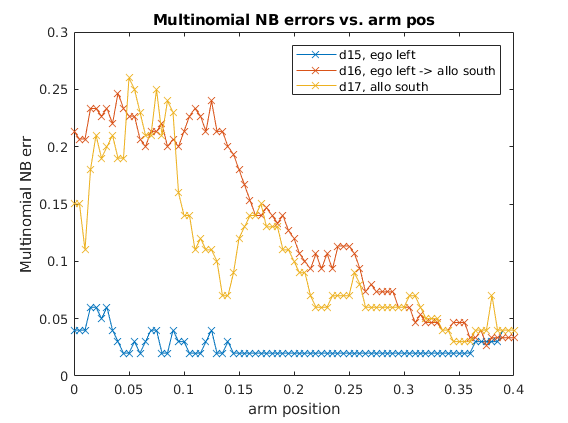
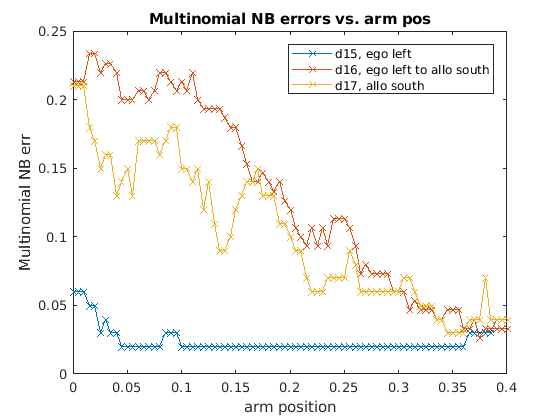
reran error curves & added explicit shuffling flag to main scripts

diff --git a/main_decode_end.m b/main_decode_end.m
@@ -1,7 +1,5 @@
-%This is the main script for end-arm decoding:
-
 clear;
-directory = '../c14m4'; %replace with wherever your data is
+directory = '../c14m4';
 
 labels{1} = 'd15, ego left';
 days{1} = 'c14m4d15';
@@ -16,15 +14,17 @@ if ~exist('figs', 'dir')
     mkdir('figs');
 end
 
-%figure;
+DO_SHUFFLE = true;
 parfor i = 1:3
     ds = quick_ds(fullfile(directory, days{i}), 'deprobe', 'nocells');
-    [poss{i}, err{i}, err_map{i}] = decode_end_nb(ds, 0.005, 0.4, false);
+    [poss{i}, err{i}, err_map{i}] = decode_end_nb(ds, 0.005, 0.4, DO_SHUFFLE);
     fprintf('trained %s\n', labels{i});
     %plot(poss, err, '-x');
     %hold on;
-    view_err(ds, poss{i}, err{i}, err_map{i}, labels{i}, 'Multinomial_NB', 'save', 'newfigs', 'hide');
+    %view_err(ds, poss{i}, err{i}, err_map{i}, labels{i}, 'Multinomial_NB', 'save', 'newfigs', 'hide');
 end
+
+figure;
 for i = 1:3
     plot(poss{i}, err{i}, '-x');
     hold on;
@@ -34,9 +34,10 @@ end
 
 xlabel('arm position');
 ylabel('Multinomial NB err');
-title('Multinomial NB errors vs. arm pos');
+plot_title = 'Multinomial NB errors vs. arm pos';
+title_note = '';
+if DO_SHUFFLE
+    title_note = ' SHUFFLED';
+end
+title([plot_title title_note]);
 legend(labels{:});
-
-%for i = 1:3
-%    view_err(ds, poss{i}, err{i}, err_map{i}, labels{i});
-%end

diff --git a/main_svm.m b/main_svm.m
@@ -1,4 +1,3 @@
-
 clear;
 rng(10);
 
@@ -17,16 +16,18 @@ if ~exist('figs', 'dir')
     mkdir('figs');
 end
 
-figure;
+DO_SHUFFLE = true;
 parfor i = 1:3
     ds = quick_ds(fullfile(directory, days{i}), 'deprobe', 'nocells');
     fprintf('loaded %s\n', labels{i});
-    [poss{i}, err{i}, err_map{i}] = decode_end_svm(ds, 0.005, 0.4, false);
+    [poss{i}, err{i}, err_map{i}] = decode_end_svm(ds, 0.005, 0.4, DO_SHUFFLE);
     fprintf('trained %s\n', labels{i});
     %plot(poss, err, '-x');
     %hold on;
-    view_err(ds, poss{i}, err{i}, err_map{i}, labels{i}, 'SVM', 'save', 'newfigs', 'hide');
+    %view_err(ds, poss{i}, err{i}, err_map{i}, labels{i}, 'SVM', 'save', 'newfigs', 'hide');
 end
+
+figure;
 for i = 1:3
     plot(poss{i}, err{i}, '-x');
     hold on;
@@ -35,5 +36,10 @@ end
 
 xlabel('arm position');
 ylabel('SVM err');
-title('SVM errors vs. arm pos');
+plot_title = 'SVM errors vs. arm pos';
+title_note = '';
+if DO_SHUFFLE
+    title_note = ' SHUFFLED';
+end
+title([plot_title title_note]);
 legend(labels{:});
